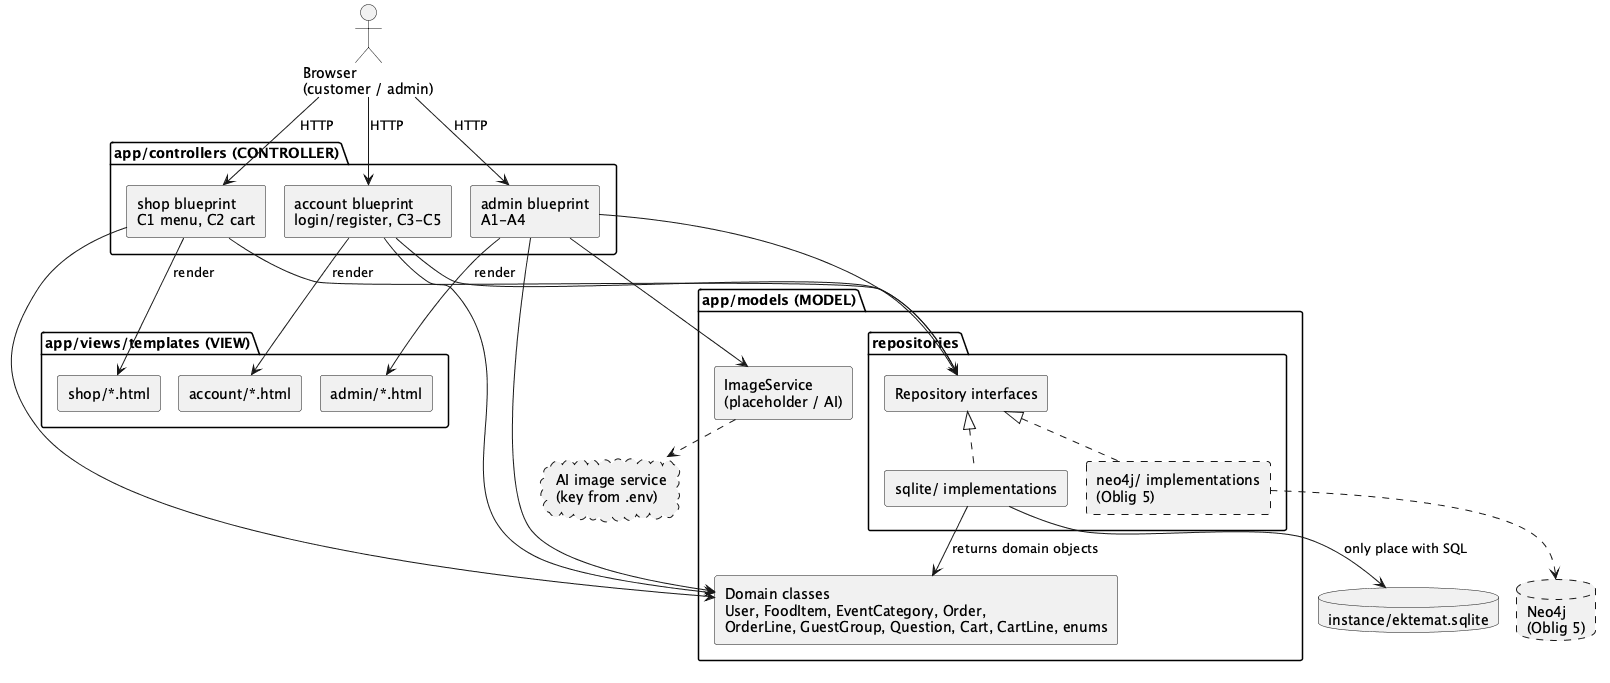
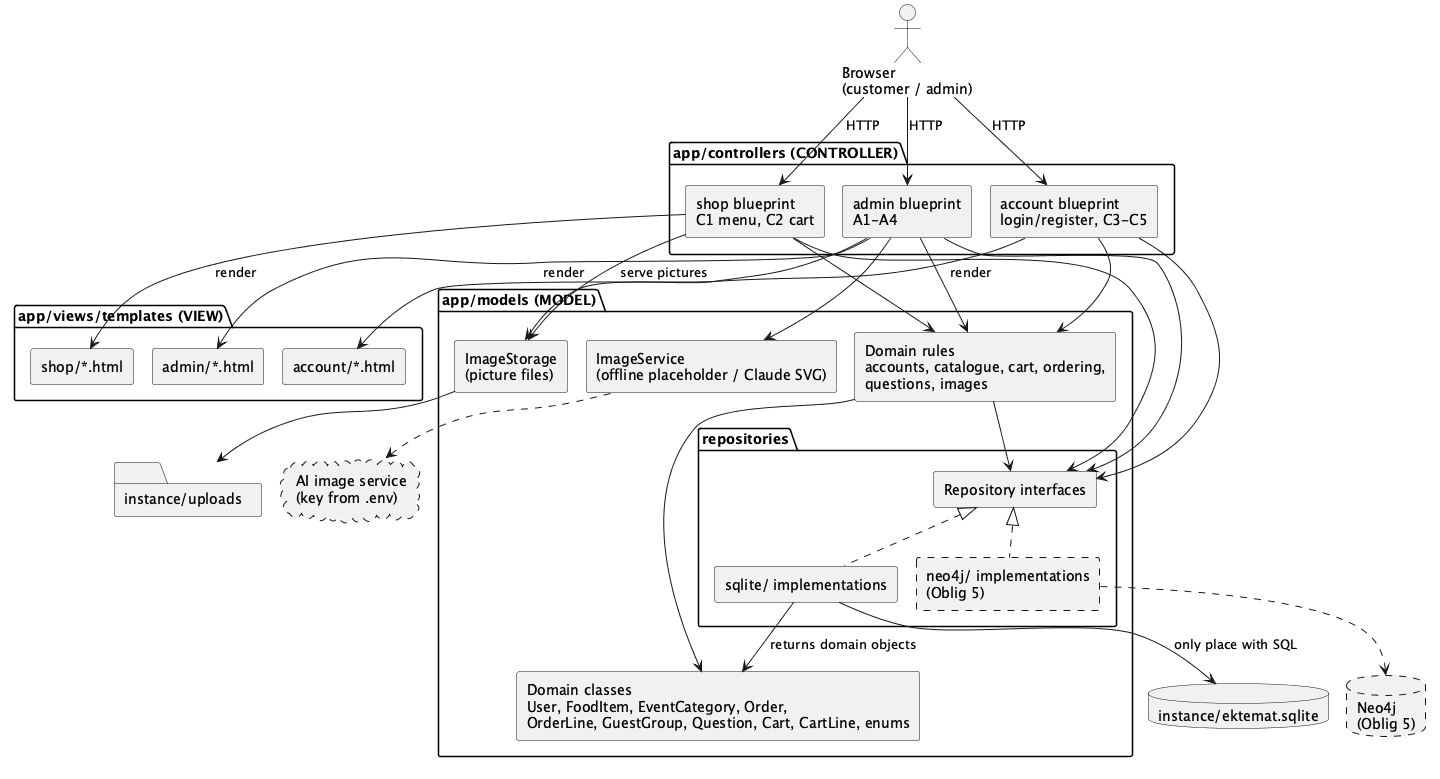
Update MVC diagram to the final code and record the diagram check

diff --git a/docs/design/README.md b/docs/design/README.md
@@ -39,3 +39,13 @@ All five diagrams pass `-checkonly` and were inspected after rendering: all elem
 **Differences to 01-plan §4 (to update after review):** `CartLine` added (the plan only had a session dict); `Question.answeredBy` modelled as association to `User`; `FoodItem.unit` dropped (all prices are per person in the data pack).
 
 **Not modelled (deliberately):** company accounts, ingredients/suppliers, capacity, payments — Should/Won't items (`user-stories.md` E6, W-01 – W-10).
+
+## Check against the code (2026-10-29, phase 10)
+
+| Diagram | Matches the code? |
+|---|---|
+| Use case | ✔ Every use case has a working page; `tests/test_walkthrough.py` runs them end to end |
+| Domain class | ✔ Same classes, attributes and constraints as `app/models/entities.py` and `enums.py` (analysis model: no technical ids or foreign keys); constraints enforced in `cart.py`, `ordering.py`, `questions.py` and the SQLite schema |
+| Sequence (checkout) | ✔ Updated in phase 6: `validate()` is `place_order()` in `app/models/ordering.py` |
+| State machine | ✔ `ALLOWED_TRANSITIONS` in `app/models/enums.py`; the admin status form only offers `OrderStatus.next_statuses` |
+| MVC architecture | ✔ Updated in phase 10: domain-rule modules, `ImageStorage` and `instance/uploads` added; controllers reach the database only through repository interfaces (`tests/test_smoke.py`) |
